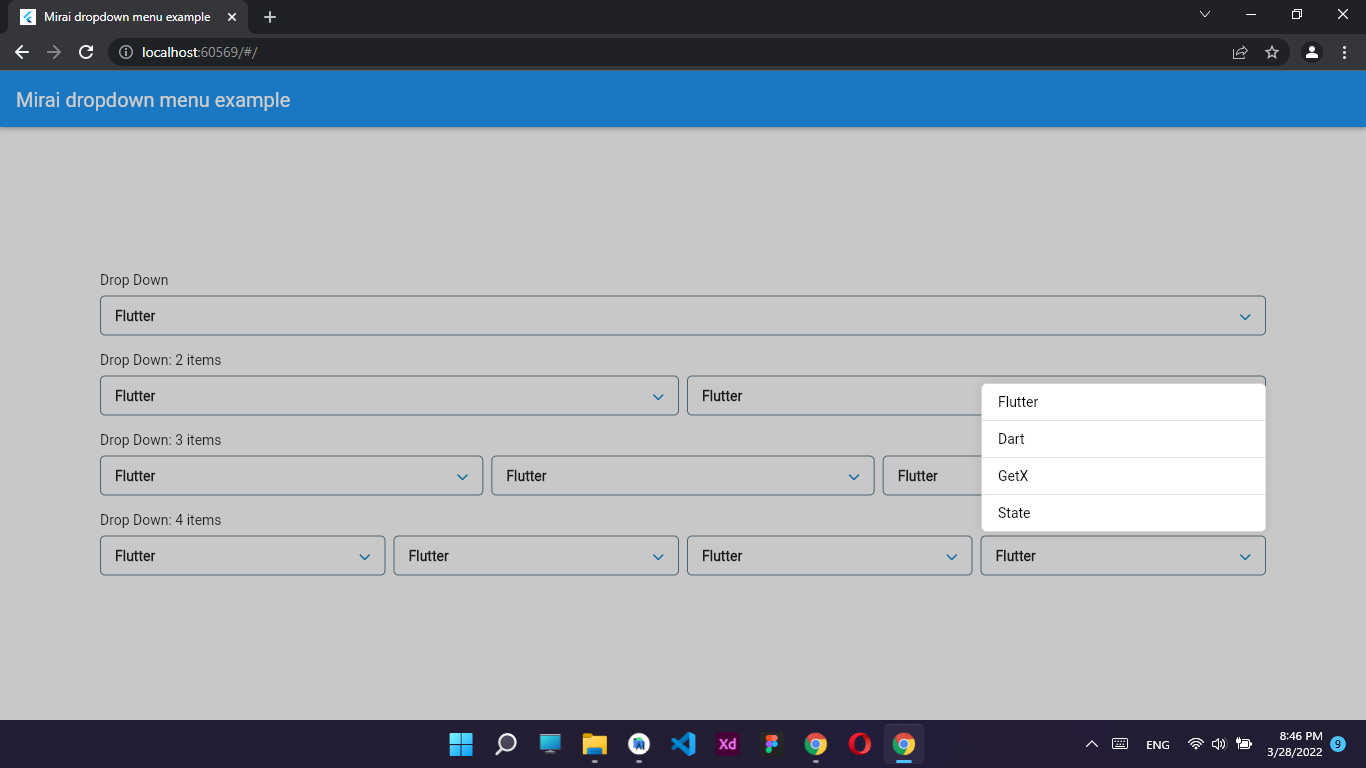
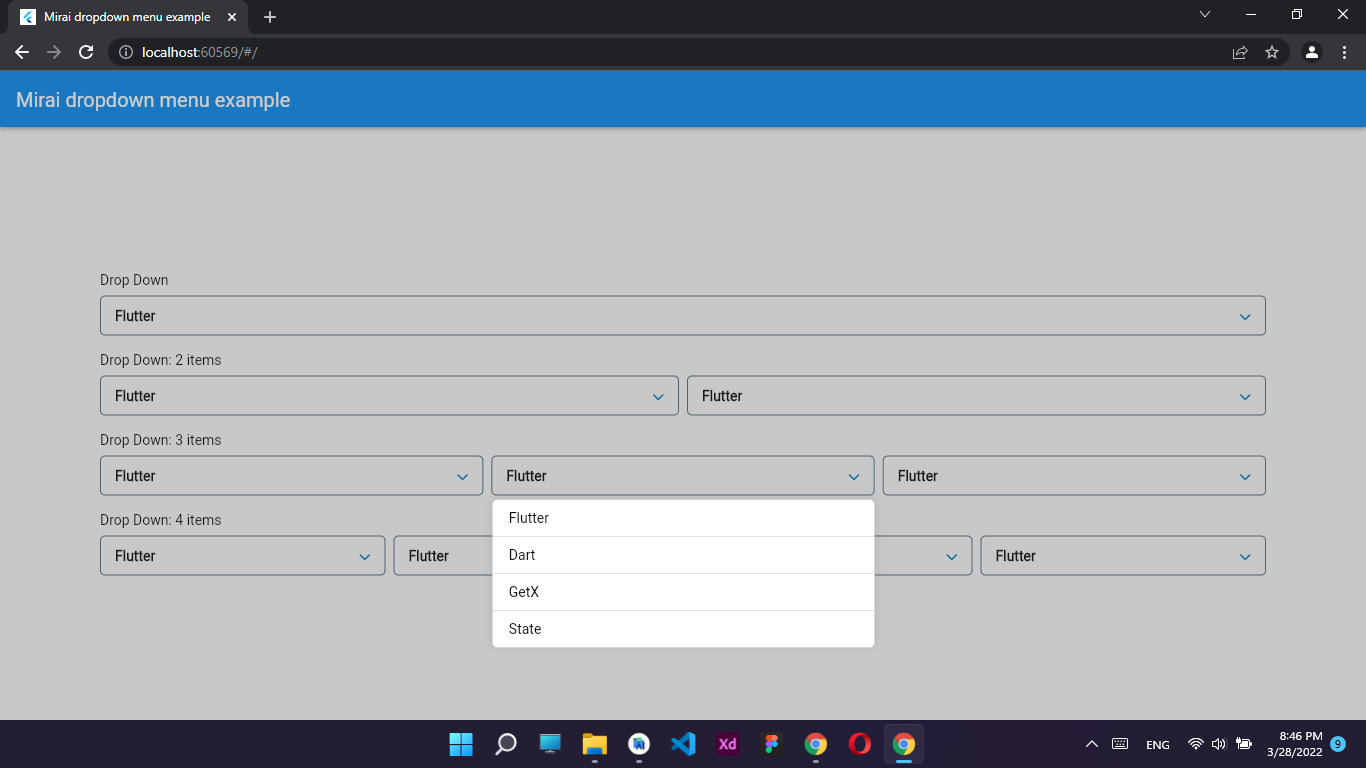
Fix MiraiShowMode Top

Changed region(s): [[0.3382, 0.625, 0.6457, 0.8438], [0.7072, 0.5, 0.9531, 0.7188]]

diff --git a/example/lib/main.dart b/example/lib/main.dart
@@ -1,6 +1,8 @@
 import 'package:example/app/widgets/mirai_drop_down_item_widget.dart';
 import 'package:example/app/widgets/mirai_dropdown_widget.dart';
+import 'package:flutter/foundation.dart';
 import 'package:flutter/material.dart';
+import 'package:mirai_dropdown_menu/mirai_dropdown_menu.dart';
 
 import 'app/core/utils/app_size_config.dart';
 
@@ -71,7 +73,7 @@ class _MyHomePageState extends State<MyHomePage> {
       body: Center(
         child: Padding(
           padding: const EdgeInsets.symmetric(
-            horizontal: 14,
+            horizontal: kIsWeb ? 100 : 14,
           ),
           child: Column(
             mainAxisAlignment: MainAxisAlignment.center,
@@ -173,6 +175,8 @@ class _MyHomePageState extends State<MyHomePage> {
                 children: [
                   Expanded(
                     child: MiraiDropdownWidget(
+                      showMode:
+                          kIsWeb ? MiraiShowMode.top : MiraiShowMode.bottom,
                       valueNotifier: valueNotifier,
                       itemWidget: (int index, String item) {
                         return MiraiDropDownItemWidget(item: item);
@@ -186,6 +190,8 @@ class _MyHomePageState extends State<MyHomePage> {
                   const SizedBox(width: 8),
                   Expanded(
                     child: MiraiDropdownWidget(
+                      showMode:
+                          kIsWeb ? MiraiShowMode.top : MiraiShowMode.bottom,
                       valueNotifier: valueNotifier,
                       itemWidget: (int index, String item) {
                         return MiraiDropDownItemWidget(item: item);
@@ -199,6 +205,8 @@ class _MyHomePageState extends State<MyHomePage> {
                   const SizedBox(width: 8),
                   Expanded(
                     child: MiraiDropdownWidget(
+                      showMode:
+                          kIsWeb ? MiraiShowMode.top : MiraiShowMode.bottom,
                       valueNotifier: valueNotifier,
                       itemWidget: (int index, String item) {
                         return MiraiDropDownItemWidget(item: item);
@@ -212,6 +220,8 @@ class _MyHomePageState extends State<MyHomePage> {
                   const SizedBox(width: 8),
                   Expanded(
                     child: MiraiDropdownWidget(
+                      showMode:
+                          kIsWeb ? MiraiShowMode.top : MiraiShowMode.bottom,
                       valueNotifier: valueNotifier,
                       itemWidget: (int index, String item) {
                         return MiraiDropDownItemWidget(item: item);

diff --git a/example/lib/app/widgets/mirai_dropdown_widget.dart b/example/lib/app/widgets/mirai_dropdown_widget.dart
@@ -3,6 +3,7 @@
 * On 3/28/2022.
 */
 import 'package:example/app/core/utils/app_theme.dart';
+import 'package:flutter/foundation.dart';
 import 'package:flutter/material.dart';
 import 'package:font_awesome_flutter/font_awesome_flutter.dart';
 import 'package:mirai_dropdown_menu/mirai_dropdown_menu.dart';
@@ -19,6 +20,7 @@ class MiraiDropdownWidget<T> extends StatelessWidget {
     this.exit = MiraiExit.fromAll,
     this.chevronDownColor,
     this.dropdownChild,
+    this.showMode = MiraiShowMode.bottom,
   }) : super(key: key);
 
   final ValueNotifier<String> valueNotifier;
@@ -30,12 +32,15 @@ class MiraiDropdownWidget<T> extends StatelessWidget {
   final MiraiExit exit;
   final Color? chevronDownColor;
   final Widget? dropdownChild;
+  final MiraiShowMode showMode;
 
   @override
   Widget build(BuildContext context) {
     return MiraiPopupMenu<T>(
       key: UniqueKey(),
       enable: true,
+      space: 4,
+      showMode: showMode,
       exit: exit,
       showSeparator: showSeparator,
       child: Container(

diff --git a/lib/src/mirai_dropdown_menu.dart b/lib/src/mirai_dropdown_menu.dart
@@ -29,7 +29,7 @@ class MiraiPopupMenu<T> extends StatefulWidget {
     this.onOtherChanged,
     this.exit = MiraiExit.fromAll,
     this.isExpanded,
-    this.space = 2,
+    this.space = 3,
   })  : assert(child.key != null),
         super(key: key);
 
@@ -217,7 +217,9 @@ class _PopupMenuContentState<T> extends State<_PopupMenuContent<T>>
                       ? widget.position.dy + widget.space + widget.size.height
                       : widget.position.dy -
                           widget.space -
-                          (widget.maxHeight ?? 0),
+                          (widget.maxHeight ??
+                              (widget.size.height - 3) *
+                                  widget.children.length),
                   child: AnimatedBuilder(
                     animation: _animationController,
                     builder: (context, child) {
